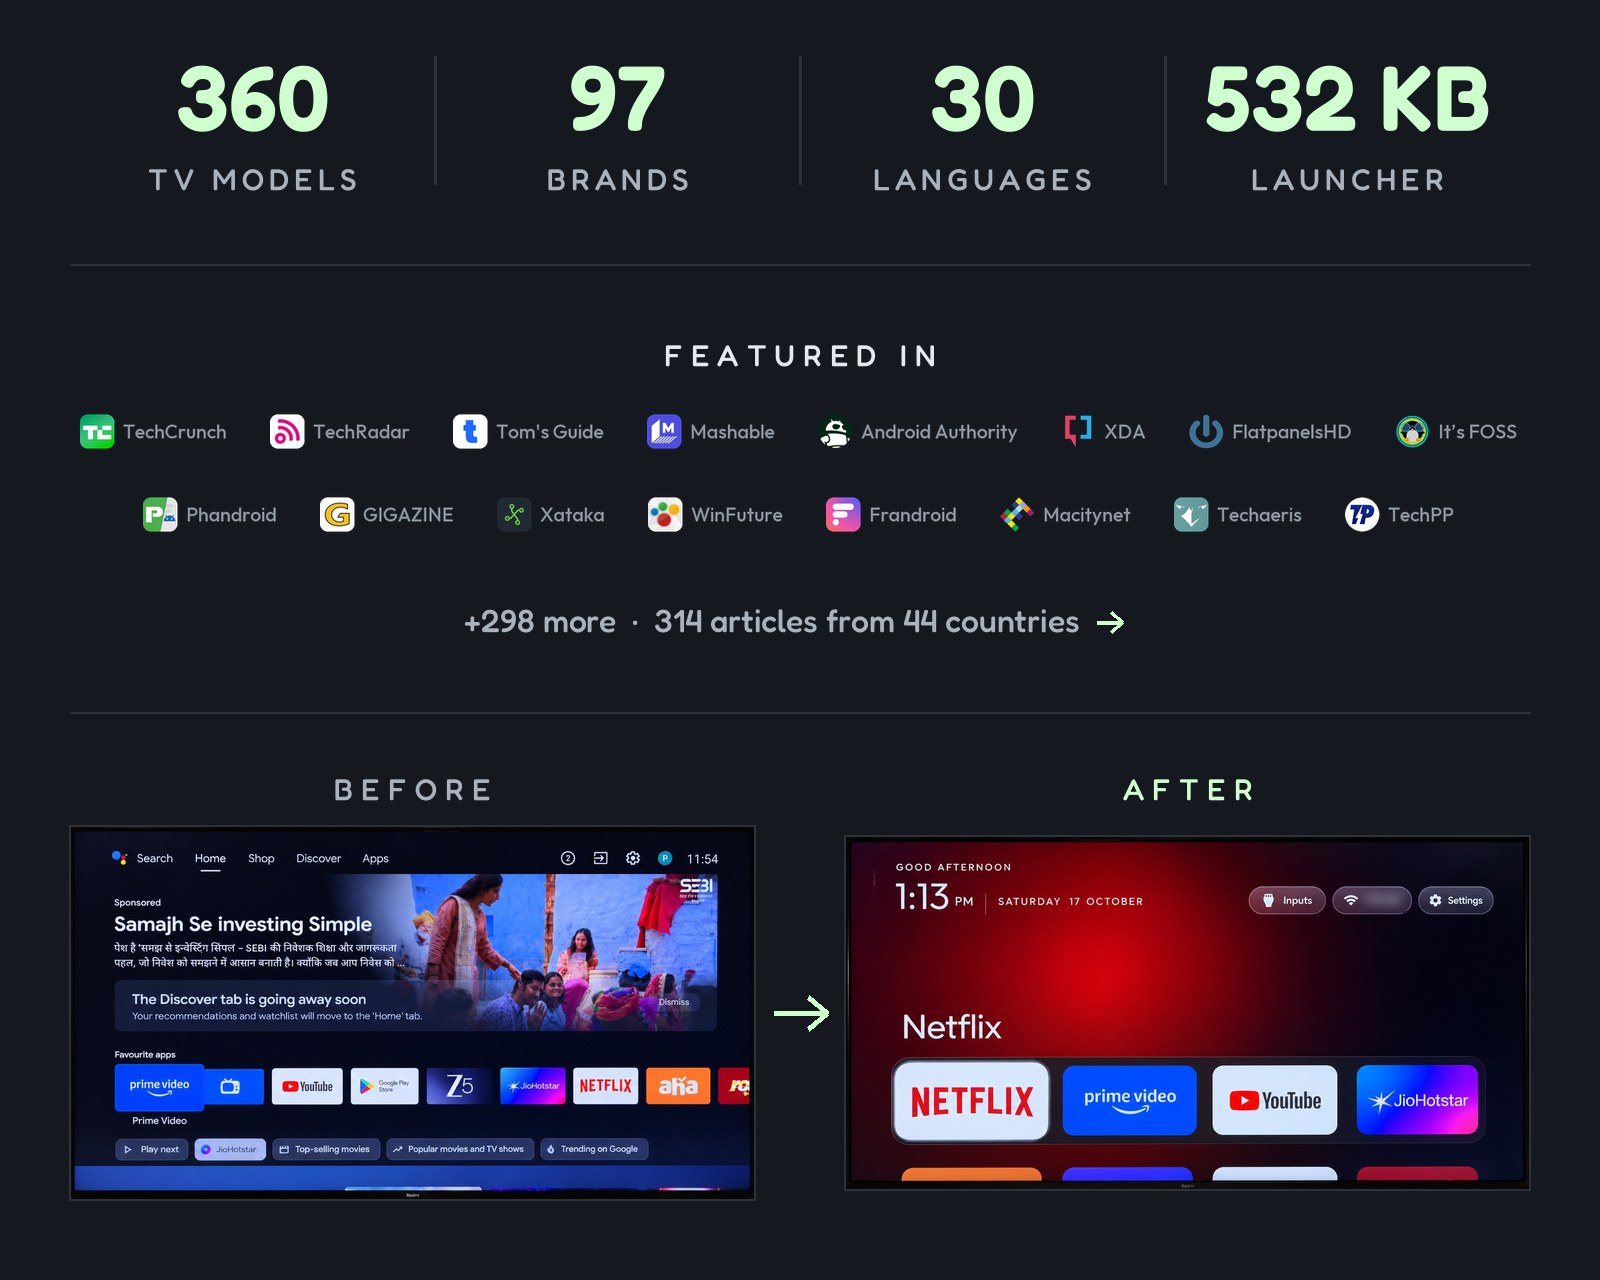
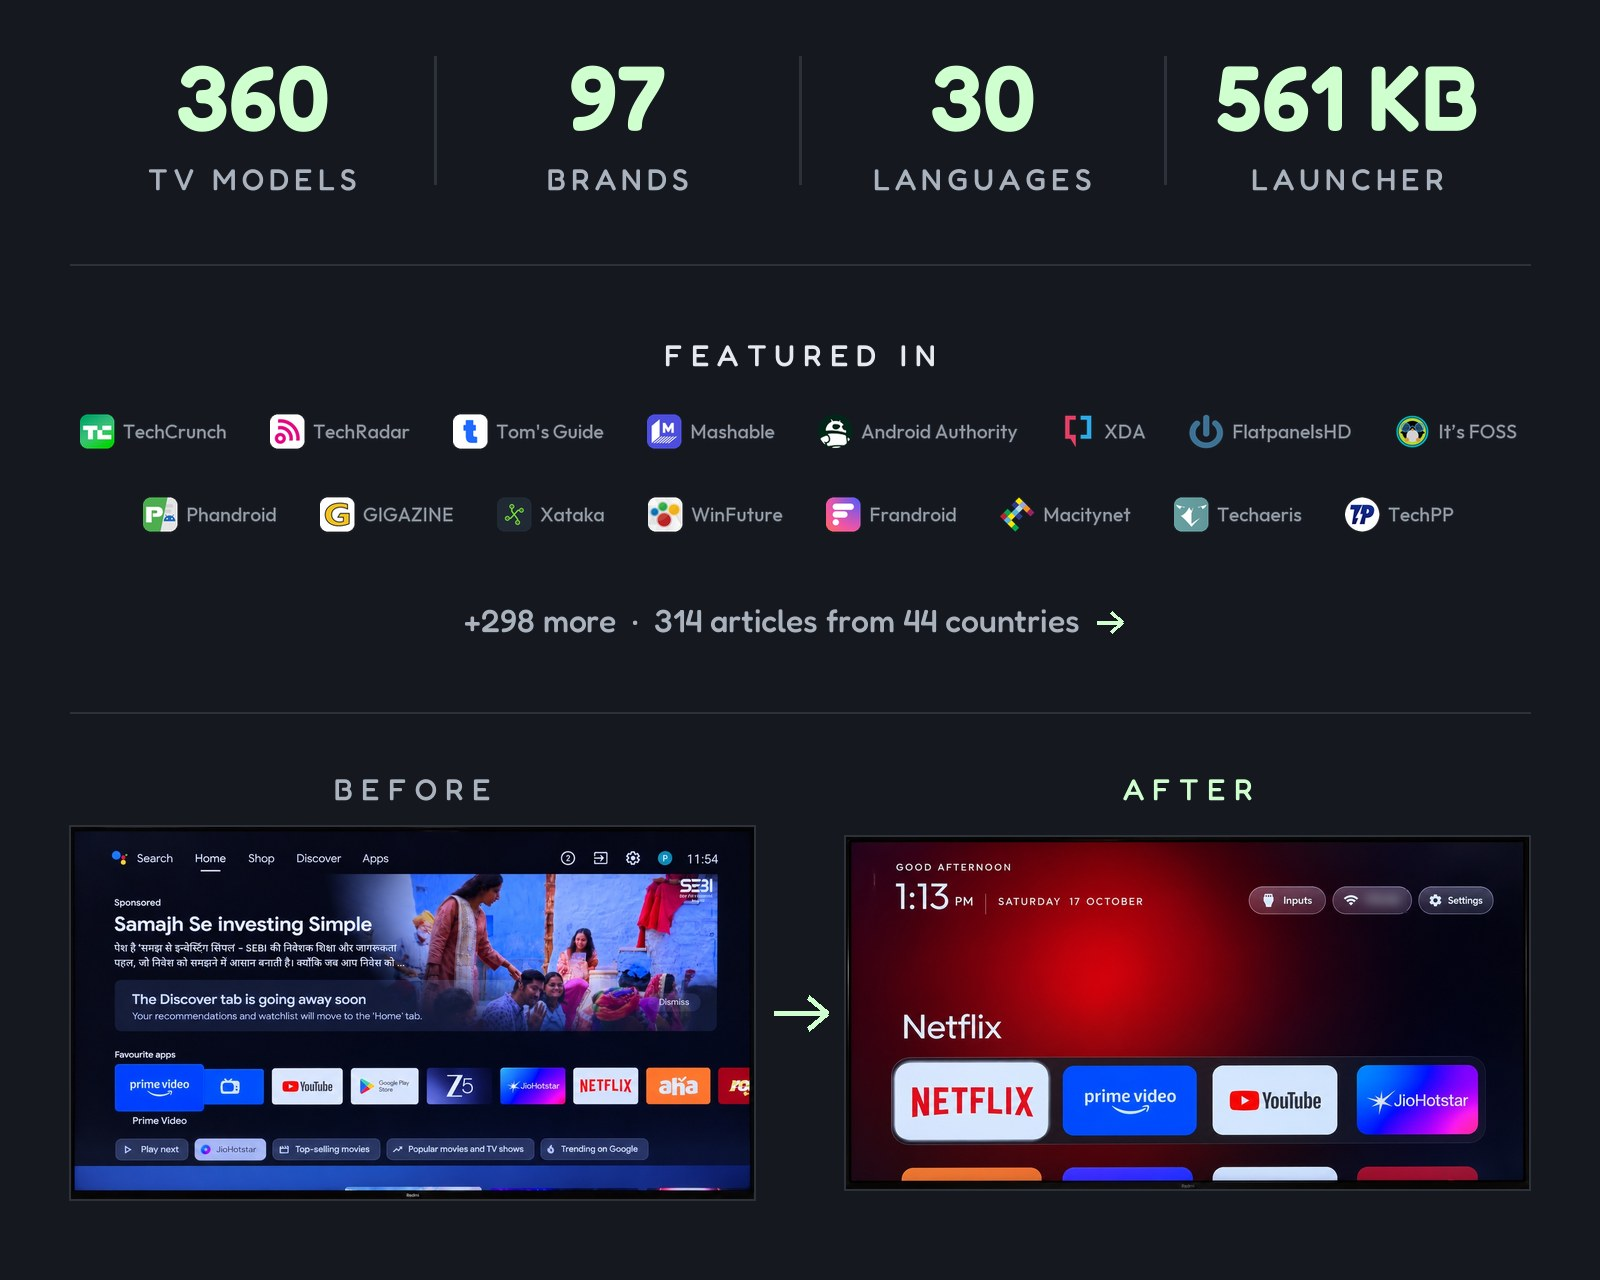
README: the launcher is about 561 KB (574,273 B release APK); card redrawn

Changed region(s): [[0.75, 0.0312, 0.9375, 0.125]]

diff --git a/tests/test_translation_recipe_gate.py b/tests/test_translation_recipe_gate.py
@@ -5,7 +5,7 @@ in `values/strings.xml`, so a full language is by far the largest thing a transl
 adds to `launcher/app/src/main/res/` - and the release APK has a hard budget:
 `.github/workflows/ci.yml`'s `launcher` job, which runs on every pull request in `launcher/`, measures
 `launcher/app/build/outputs/apk/release/app-release.apk` and fails the build at 589,824 B. The launcher
-ships just under that (README.md quotes about 532 KB), and #1271 is a full Korean translation that did
+ships just under that (README.md quotes about 561 KB), and #1271 is a full Korean translation that did
 not fit. Until now the page said nothing about it, so a translator could follow the recipe exactly and
 land a red build at a step the page never mentions.
 

diff --git a/tools/readme_stats.py b/tools/readme_stats.py
@@ -67,7 +67,7 @@ try:
 except ImportError:
     sys.exit("readme_stats.py needs Pillow: tools/venv/bin/pip install -r tools/requirements-perf.txt")
 
-STATS = [("360", "TV MODELS"), ("97", "BRANDS"), ("30", "LANGUAGES"), ("532 KB", "LAUNCHER")]
+STATS = [("360", "TV MODELS"), ("97", "BRANDS"), ("30", "LANGUAGES"), ("561 KB", "LAUNCHER")]
 W, H = 1600, 240
 img = Image.new("RGB", (W, H), "#15181e"); d = ImageDraw.Draw(img)
 def f(size, wt):

diff --git a/README.nl.md b/README.nl.md
@@ -26,7 +26,7 @@
 </p>
 
 <p align="center">
-  <a href="docs/PRESS.md"><img src="docs/card.jpg" alt="360 tv-modellen · 97 merken · 30 talen · launcher van 532 KB. Genoemd in TechCrunch, TechRadar, Tom's Guide, Mashable, Android Authority, XDA, FlatpanelsHD, It's FOSS, Phandroid, GIGAZINE, Xataka, WinFuture, Frandroid, Macitynet, Techaeris, TechPP en nog 298 media: 314 artikelen uit 44 landen. Voorheen: het standaard Google TV-startscherm met een gesponsorde advertentie. Daarna: de Clean Your TV-launcher." width="800"></a>
+  <a href="docs/PRESS.md"><img src="docs/card.jpg" alt="360 tv-modellen · 97 merken · 30 talen · launcher van 561 KB. Genoemd in TechCrunch, TechRadar, Tom's Guide, Mashable, Android Authority, XDA, FlatpanelsHD, It's FOSS, Phandroid, GIGAZINE, Xataka, WinFuture, Frandroid, Macitynet, Techaeris, TechPP en nog 298 media: 314 artikelen uit 44 landen. Voorheen: het standaard Google TV-startscherm met een gesponsorde advertentie. Daarna: de Clean Your TV-launcher." width="800"></a>
 </p>
 
 **De virale tweet:** [x.com/gathint/status/2111379569030939102](https://x.com/gathint/status/2111379569030939102)
@@ -551,7 +551,7 @@ tools/theme.sh themes/aurora                                 # push a theme; --r
 | [`tools/flamechart.py`](tools/flamechart.py) | Maakt voor een pull request een flame chart vóór en na de wijziging op basis van die traces: één baan per thread op een gedeelde tijdschaal, met het werk waarop de wijziging zich richt in magenta en met de totale duur. Optioneel, net als de trace-hulpmiddelen. [Handleiding](tools/flamechart.md). |
 | [`tools/screendiff.py`](tools/screendiff.py) | Vergelijkt schermafbeeldingen van vóór en na pixel voor pixel, laat de klok en alles wat je maskeert buiten beschouwing en slaat beide afbeeldingen op met de wifi-naam vervaagd. Optioneel, net als de trace-hulpmiddelen. [Handleiding](tools/screendiff.md). |
 | [`tools/race_calendar.py`](tools/race_calendar.py) | Schrijft de F1-kalender van dit seizoen in een thema voor de raceweekendmodus, via de gratis Jolpica-API. |
-| [`launcher/build-and-install.sh`](launcher/build-and-install.sh) | Bouwt een verkleinde release (ongeveer 532 KB), installeert deze, schakelt het startscherm om en draait de wijziging terug als de nieuwe launcher niet het startscherm wordt. |
+| [`launcher/build-and-install.sh`](launcher/build-and-install.sh) | Bouwt een verkleinde release (ongeveer 561 KB), installeert deze, schakelt het startscherm om en draait de wijziging terug als de nieuwe launcher niet het startscherm wordt. |
 
 De scripts zorgen er altijd voor dat de tv een startscherm-app behoudt: ze schakelen alleen een herkende standaardlauncher uit en slaan die app in een lijst over totdat een andere launcher op HOME reageert. Zie hieronder voor meer informatie.
 
@@ -599,7 +599,7 @@ De controle kan niet bewijzen wat de bedoeling is. `appops` laat zien dat een be
 <a id="the-launcher"></a>
 ## De launcher
 
-Een klein, native startscherm voor Android TV: **ongeveer 532 KB**, geschreven in gewone Java en ontworpen voor tv's met 1 GB RAM. Geen vervagingseffecten, geen video, geen netwerktoestemming en geen achtergrondservices.
+Een klein, native startscherm voor Android TV: **ongeveer 561 KB**, geschreven in gewone Java en ontworpen voor tv's met 1 GB RAM. Geen vervagingseffecten, geen video, geen netwerktoestemming en geen achtergrondservices.
 
 De **tv** moet Android 8.0 (API 26) of nieuwer gebruiken. `minSdk` stelt de minimale versie in tijdens het bouwen in [`launcher/app/build.gradle`](launcher/app/build.gradle). Het installatiescript vraagt vóór het bouwen de waarde van `ro.build.version.sdk` op, zodat een oudere tv beide versienummers te zien krijgt in plaats van pas bij `pm install` te mislukken. Zie [Problemen oplossen](docs/TROUBLESHOOTING.md) voor wat op zo'n tv nog mogelijk is.
 

diff --git a/README.de.md b/README.de.md
@@ -20,7 +20,7 @@
 </p>
 
 <p align="center">
-  <a href="docs/PRESS.md"><img src="docs/card.jpg" alt="360 TV-Modelle · 97 Marken · 30 Sprachen · Launcher mit 532 KB. Erwähnt in TechCrunch, TechRadar, Tom's Guide, Mashable, Android Authority, XDA, FlatpanelsHD, It's FOSS, Phandroid, GIGAZINE, Xataka, WinFuture, Frandroid, Macitynet, Techaeris, TechPP und 298 weitere: 314 Artikel aus 44 Ländern. Vorher: der Google-TV-Startbildschirm mit einer bezahlten Anzeige. Nachher: der Clean-Your-TV-Launcher." width="800"></a>
+  <a href="docs/PRESS.md"><img src="docs/card.jpg" alt="360 TV-Modelle · 97 Marken · 30 Sprachen · Launcher mit 561 KB. Erwähnt in TechCrunch, TechRadar, Tom's Guide, Mashable, Android Authority, XDA, FlatpanelsHD, It's FOSS, Phandroid, GIGAZINE, Xataka, WinFuture, Frandroid, Macitynet, Techaeris, TechPP und 298 weitere: 314 Artikel aus 44 Ländern. Vorher: der Google-TV-Startbildschirm mit einer bezahlten Anzeige. Nachher: der Clean-Your-TV-Launcher." width="800"></a>
 </p>
 
 ## Einstieg
@@ -192,7 +192,7 @@ tools/theme.sh themes/aurora                                 # ein Theme aufspie
 | [`tools/flamechart.py`](tools/flamechart.py) | Zeichnet aus diesen Traces ein Vorher/Nachher-Flammendiagramm für einen Pull Request: eine Spur je Thread auf gemeinsamer Zeitachse, die Arbeit, die eine Änderung trifft, in Magenta mit ihrer Summe. Optional, wie die Trace-Werkzeuge. [Anleitung](tools/flamechart.md). |
 | [`tools/screendiff.py`](tools/screendiff.py) | Vergleicht ein Vorher- und ein Nachher-Bild Pixel für Pixel, lässt die Uhr oder das aus, was du maskierst, und schreibt das Paar mit unkenntlich gemachtem WLAN-Namen. Optional, wie die Trace-Werkzeuge. [Anleitung](tools/screendiff.md). |
 | [`tools/race_calendar.py`](tools/race_calendar.py) | Schreibt den F1-Kalender dieser Saison in ein Theme für den Rennwochenend-Modus, aus der freien Jolpica-API. |
-| [`launcher/build-and-install.sh`](launcher/build-and-install.sh) | Baut ein geschrumpftes Release (etwa 532 KB), installiert es, schaltet Home um und rollt zurück, wenn Home nicht darauf landet. |
+| [`launcher/build-and-install.sh`](launcher/build-and-install.sh) | Baut ein geschrumpftes Release (etwa 561 KB), installiert es, schaltet Home um und rollt zurück, wenn Home nicht darauf landet. |
 
 Die Skripte lassen den Fernseher nie ohne Home-App: sie deaktivieren nur einen Hersteller-Launcher, den sie erkennen,
 und überspringen die Home-App in einer Liste, bis ein anderer Launcher auf HOME antwortet. Eigene Listen können außerhalb
@@ -247,7 +247,7 @@ Debloat-Liste. Was die Prüfung nicht kann, ist Absicht beweisen: [docs/privacy.
 
 ## Der Launcher
 
-Ein kleiner nativer Startbildschirm für Android TV: **etwa 532 KB**, einfaches Java, gebaut für Fernseher mit 1 GB RAM.
+Ein kleiner nativer Startbildschirm für Android TV: **etwa 561 KB**, einfaches Java, gebaut für Fernseher mit 1 GB RAM.
 Kein Weichzeichnen, kein Video, keine Netzwerkberechtigung, keine Hintergrunddienste. Der **Fernseher** braucht Android 8.0 (API 26)
 oder neuer, das `minSdk` in [`launcher/app/build.gradle`](launcher/app/build.gradle); was auf einem älteren
 Gerät übrig bleibt, steht in der [Fehlerbehebung](docs/TROUBLESHOOTING.md).

diff --git a/README.md b/README.md
@@ -20,7 +20,7 @@
 </p>
 
 <p align="center">
-  <a href="docs/PRESS.md"><img src="docs/card.jpg" alt="360 TV models · 97 brands · 30 languages · 532 KB launcher. Featured in TechCrunch, TechRadar, Tom's Guide, Mashable, Android Authority, XDA, FlatpanelsHD, It's FOSS, Phandroid, GIGAZINE, Xataka, WinFuture, Frandroid, Macitynet, Techaeris, TechPP and 298 more: 314 articles from 44 countries. Before: stock Google TV home with a sponsored ad. After: the Clean Your TV launcher." width="800"></a>
+  <a href="docs/PRESS.md"><img src="docs/card.jpg" alt="360 TV models · 97 brands · 30 languages · 561 KB launcher. Featured in TechCrunch, TechRadar, Tom's Guide, Mashable, Android Authority, XDA, FlatpanelsHD, It's FOSS, Phandroid, GIGAZINE, Xataka, WinFuture, Frandroid, Macitynet, Techaeris, TechPP and 298 more: 314 articles from 44 countries. Before: stock Google TV home with a sponsored ad. After: the Clean Your TV launcher." width="800"></a>
 </p>
 
 ## Start here
@@ -201,7 +201,7 @@ tools/theme.sh themes/aurora                                 # push a theme; --r
 | [`tools/flamechart.py`](tools/flamechart.py) | Draws a before/after flame chart from those traces, for a pull request: one lane per thread on a shared time scale, the work a change targets in magenta with its total. Optional, like the trace tools. [Guide](tools/flamechart.md). |
 | [`tools/screendiff.py`](tools/screendiff.py) | Compares a before and an after screenshot pixel by pixel, leaving out the clock or anything you mask, and writes the pair with your Wi-Fi name blurred. Optional, like the trace tools. [Guide](tools/screendiff.md). |
 | [`tools/race_calendar.py`](tools/race_calendar.py) | Writes this season's F1 calendar into a theme for race-weekend mode, from the free Jolpica API. |
-| [`launcher/build-and-install.sh`](launcher/build-and-install.sh) | Builds a shrunk release (about 532 KB), installs it, switches Home, and rolls back if Home does not land on it. |
+| [`launcher/build-and-install.sh`](launcher/build-and-install.sh) | Builds a shrunk release (about 561 KB), installs it, switches Home, and rolls back if Home does not land on it. |
 
 The scripts never leave the TV without a Home app: they only disable a stock launcher they recognise,
 and skip the Home app in a list until another launcher answers HOME. Your own lists can live outside
@@ -264,7 +264,7 @@ debloat list. What the audit cannot do is prove intent: [docs/privacy.md](docs/p
 
 ## The launcher
 
-A small native home screen for Android TV: **about 532 KB**, plain Java, built for TVs with 1 GB of RAM.
+A small native home screen for Android TV: **about 561 KB**, plain Java, built for TVs with 1 GB of RAM.
 No blur, no video, no network permission, no background services. The **TV** needs Android 8.0 (API 26)
 or newer, the `minSdk` in [`launcher/app/build.gradle`](launcher/app/build.gradle); what is left on an older
 set is in [Troubleshooting](docs/TROUBLESHOOTING.md).

diff --git a/docs/workflows/translation.md b/docs/workflows/translation.md
@@ -32,7 +32,7 @@
 7. Check the size gate before you push. A language's strings ship in the release APK, and that APK has to
    stay under 589,824 B (576 KB): `launcher/app/build/outputs/apk/release/app-release.apk`, measured with
    `stat -c %s` on Linux or `stat -f %z` on macOS, and checked by the "Launcher build and unit tests" job
-   on every pull request. `README.md` quotes the launcher at about 532 KB, so a full language can be the
+   on every pull request. `README.md` quotes the launcher at about 561 KB, so a full language can be the
    difference between green and a failed build. A language that does not fit is a maintainer decision, not
    something to land by dropping strings ([#1271](https://github.com/Gathin23/cleanyourtv/issues/1271)).
 8. Build the launcher, set the TV's language (Android 13+: `tools/tv.py 'cmd locale set-app-locales com.gathin.tvhome --locales <tag>'`)

diff --git a/docs/launcher.md b/docs/launcher.md
@@ -2,7 +2,7 @@
 
 [Back to the README](../README.md#the-launcher)
 
-A small native home screen for Android TV: **about 532 KB**, plain Java, built for TVs with 1 GB of RAM.
+A small native home screen for Android TV: **about 561 KB**, plain Java, built for TVs with 1 GB of RAM.
 No blur, no video, no network permission, no background services. This page has the details the
 README leaves out: settings, languages, remote keys and building it yourself. Every key a theme can
 set is in [`themes/README.md`](../themes/README.md#keys), and the opt-in switches with their

diff --git a/.github/maintainer/MAINTAINER.md b/.github/maintainer/MAINTAINER.md
@@ -1,7 +1,7 @@
 # How CleanYourTV PRs are reviewed
 
 CleanYourTV (Gathin23/cleanyourtv) is a prompt plus tools that debloat Android TV / Google TV / Fire TV over
-ADB and a tiny native launcher (`launcher/`, plain Java, ~532 KB, for 1 GB TVs). Contributors mostly add
+ADB and a tiny native launcher (`launcher/`, plain Java, ~561 KB, for 1 GB TVs). Contributors mostly add
 tested TV lists under `examples/<tv>/`, translations, docs, small launcher options, themes, add-ons and tools.
 
 ## The policy: a small core plus a well-indexed hub
